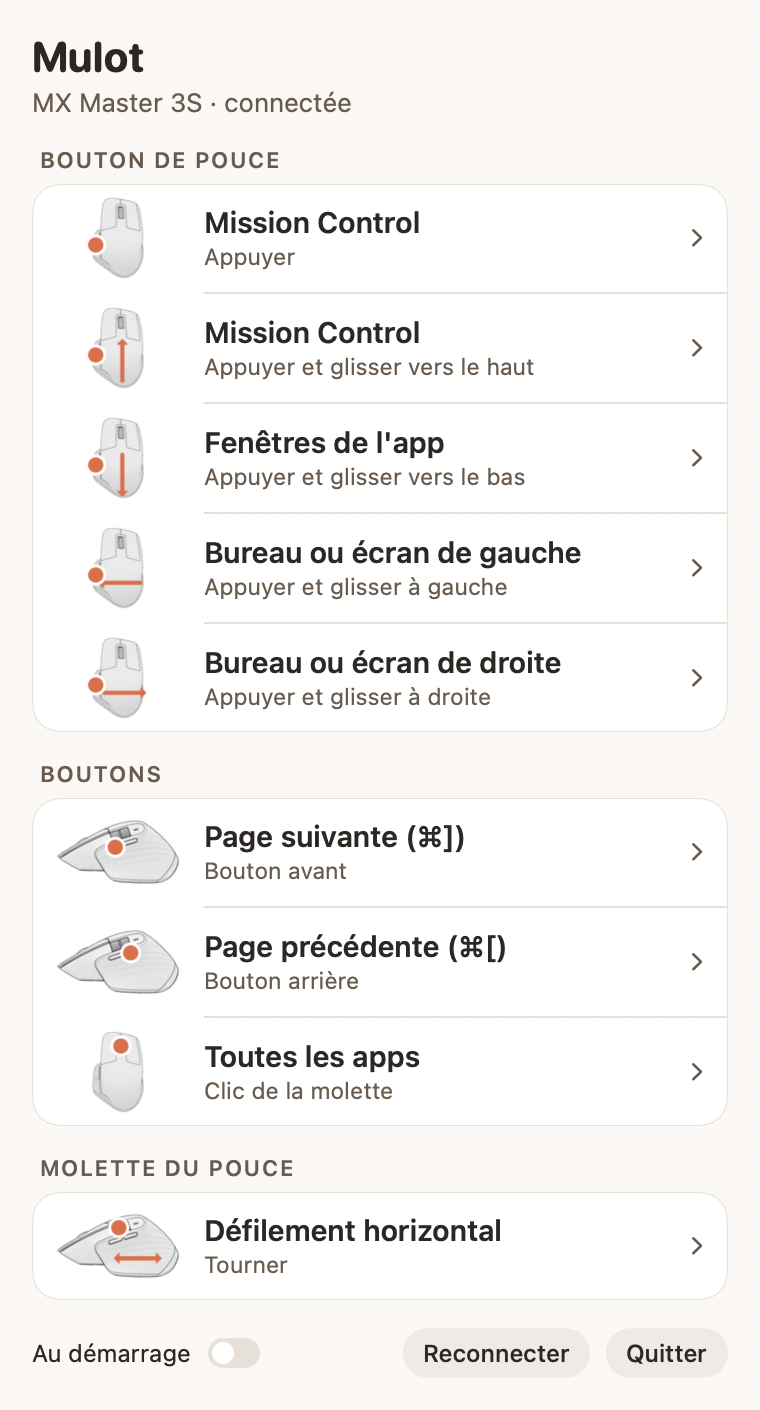
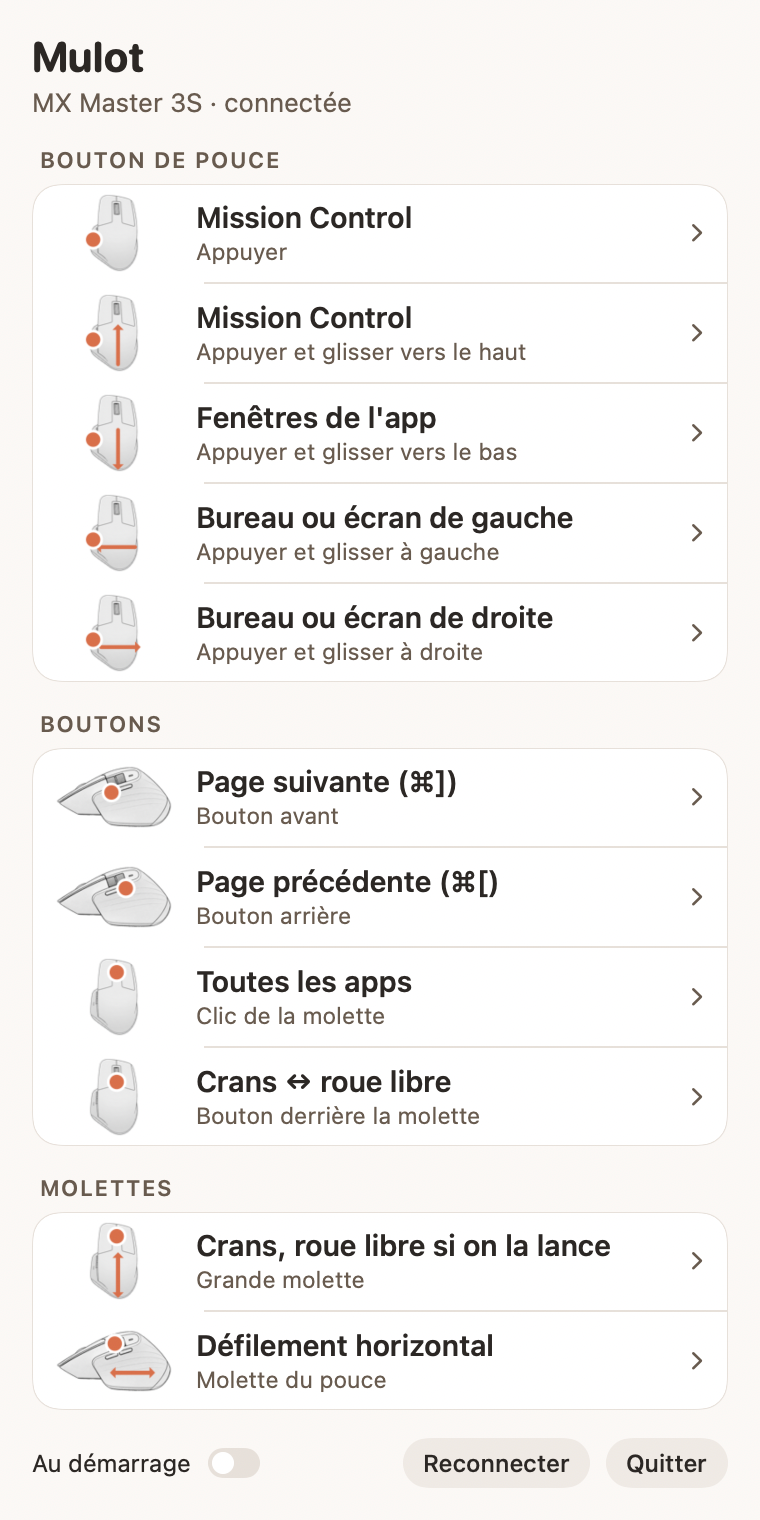
Réglages de la grande molette (SmartShift) et bouton derrière la molette réglable

diff --git a/Sources/Mulot/HIDPP.swift b/Sources/Mulot/HIDPP.swift
@@ -10,6 +10,9 @@ final class LogiManager {
 
     // Identifiants HID++
     static let gestureCID: UInt16 = 0x00C3     // bouton de pouce (gestes)
+    static let shiftCID: UInt16 = 0x00C4       // bouton derrière la molette (crans / roue libre)
+    static let featSmartShiftV2: UInt16 = 0x2111   // MX Master 3, 3S, 4
+    static let featSmartShift: UInt16 = 0x2110     // MX Master 2S et plus anciennes
     static let featReprog: UInt16 = 0x1B04     // REPROG_CONTROLS_V4
     static let featBatteryUnified: UInt16 = 0x1004
     static let featBatteryLegacy: UInt16 = 0x1000
@@ -32,6 +35,9 @@ final class LogiManager {
     private(set) var lastError: String?
 
     var onGestureButton: ((Bool) -> Void)?   // true = appuyé
+    var onShiftButton: (() -> Void)?         // bouton derrière la molette, quand Mulot le gère
+    /// Mulot prend la main sur le bouton derrière la molette (sinon la souris le gère seule).
+    var divertShift: Bool { Config.action(.boutonMolette) != .defaut }
     var onStateChange: (() -> Void)?
 
     func start() {
@@ -62,8 +68,9 @@ final class LogiManager {
     /// Rend le bouton de pouce à la souris (à la fermeture de l'app).
     func stop() {
         guard device != nil, let idx = features[Self.featReprog] else { return }
-        let cid = Self.gestureCID
-        send(idx, 3, [UInt8(cid >> 8), UInt8(cid & 0xFF), 0x02, 0, 0]) { _ in }
+        for cid in [Self.gestureCID, Self.shiftCID] {
+            send(idx, 3, [UInt8(cid >> 8), UInt8(cid & 0xFF), 0x02, 0, 0]) { _ in }
+        }
         RunLoop.main.run(until: Date().addingTimeInterval(0.15))
     }
 
@@ -118,7 +125,8 @@ final class LogiManager {
                 }
                 return
             }
-            if !self.paused { self.divertGesture(idx) }
+            if !self.paused { self.divertGesture(idx); self.applyShiftButton() }
+            self.applyWheel()
             self.readBattery()
         }
     }
@@ -130,10 +138,12 @@ final class LogiManager {
             if paused {
                 if pressedCIDs.contains(Self.gestureCID) { onGestureButton?(false) }
                 pressedCIDs = []
-                let cid = Self.gestureCID
-                send(idx, 3, [UInt8(cid >> 8), UInt8(cid & 0xFF), 0x02, 0, 0]) { _ in }
+                for cid in [Self.gestureCID, Self.shiftCID] {
+                    send(idx, 3, [UInt8(cid >> 8), UInt8(cid & 0xFF), 0x02, 0, 0]) { _ in }
+                }
             } else {
                 divertGesture(idx)
+                applyShiftButton(quiet: true)
             }
         }
     }
@@ -141,6 +151,42 @@ final class LogiManager {
     private func reassert() {
         guard device != nil, !paused, let idx = features[Self.featReprog] else { return }
         divertGesture(idx, quiet: true)
+        if divertShift { applyShiftButton(quiet: true) }
+    }
+
+    /// Bouton derrière la molette : détourné vers Mulot, ou rendu à la souris.
+    func applyShiftButton(quiet: Bool = false) {
+        guard device != nil, !paused, let idx = features[Self.featReprog] else { return }
+        let cid = Self.shiftCID, on = divertShift
+        send(idx, 3, [UInt8(cid >> 8), UInt8(cid & 0xFF), on ? 0x03 : 0x02, 0, 0]) { [weak self] resp in
+            if !quiet {
+                self?.log(resp == nil ? "Bouton derrière la molette : réglage refusé par la souris"
+                          : on ? "Bouton derrière la molette géré par Mulot" : "Bouton derrière la molette rendu à la souris")
+            }
+        }
+    }
+
+    /// Grande molette : crans, roue libre et bascule automatique (SmartShift).
+    func applyWheel() {
+        guard device != nil else { return }
+        let (mode, threshold) = Config.wheel.hidpp
+        feature(Self.featSmartShiftV2) { [weak self] idx in
+            guard let self else { return }
+            if let idx {
+                // V2 : fonction 2 = régler [mode, seuil, force des crans (0 = inchangée)]
+                self.send(idx, 2, [mode, threshold, 0]) { resp in self.logWheel(resp != nil) }
+            } else {
+                self.feature(Self.featSmartShift) { idx in
+                    guard let idx else { return self.log("Molette : la souris ne gère pas SmartShift") }
+                    // V1 : fonction 1 = régler [mode, seuil, seuil par défaut (0 = inchangé)]
+                    self.send(idx, 1, [mode, threshold, 0]) { resp in self.logWheel(resp != nil) }
+                }
+            }
+        }
+    }
+
+    private func logWheel(_ ok: Bool) {
+        log(ok ? "Molette : \(Config.wheel.label)" : "Molette : réglage refusé par la souris")
     }
 
     private func divertGesture(_ idx: UInt8, quiet: Bool = false) {
@@ -249,8 +295,10 @@ final class LogiManager {
                 i += 2
             }
             let was = pressedCIDs.contains(Self.gestureCID), isNow = now.contains(Self.gestureCID)
+            let shiftPressed = !pressedCIDs.contains(Self.shiftCID) && now.contains(Self.shiftCID)
             pressedCIDs = now
             if was != isNow { onGestureButton?(isNow) }
+            if shiftPressed { onShiftButton?() }
         }
     }
 

diff --git a/Sources/Mulot/Panel.swift b/Sources/Mulot/Panel.swift
@@ -38,7 +38,13 @@ final class PanelModel: ObservableObject {
     var tapRunning: Bool { Mouse.shared.isRunning }
 
     func action(_ s: Slot) -> Action { Config.action(s) }
-    func set(_ s: Slot, _ a: Action) { Config.set(s, a); refresh() }
+    func set(_ s: Slot, _ a: Action) {
+        Config.set(s, a)
+        if s == .boutonMolette { logi.applyShiftButton() }
+        refresh()
+    }
+    var wheel: WheelMode { Config.wheel }
+    func setWheel(_ m: WheelMode) { Config.wheel = m; logi.applyWheel(); refresh() }
     var thumb: ThumbMode { Config.thumb }
     func setThumb(_ m: ThumbMode) { Config.thumb = m; refresh() }
 
@@ -71,9 +77,11 @@ struct PanelView: View {
                 rows([Slot.gesteClic, .gesteHaut, .gesteBas, .gesteGauche, .gesteDroite])
             }
             section("Boutons") {
-                rows([Slot.suivant, .precedent, .molette])
+                rows([Slot.suivant, .precedent, .molette, .boutonMolette])
             }
-            section("Molette du pouce") {
+            section("Molettes") {
+                wheelRow
+                Divider().overlay(Palette.line).padding(.leading, 86)
                 thumbRow
             }
             footer
@@ -179,14 +187,22 @@ struct PanelView: View {
         expandable(id: slot.rawValue,
                    image: MouseArt.image(slot.spot, arrow: slot.arrow),
                    caption: slot.shortLabel,
-                   value: model.action(slot).label,
-                   choices: slot.choices.map { a in (a.label, a == model.action(slot), { model.set(slot, a) }) })
+                   value: slot.actionLabel(model.action(slot)),
+                   choices: slot.choices.map { a in (slot.actionLabel(a), a == model.action(slot), { model.set(slot, a) }) })
+    }
+
+    private var wheelRow: some View {
+        expandable(id: "wheel",
+                   image: MouseArt.image(.molette, arrow: .verticale),
+                   caption: "Grande molette",
+                   value: model.wheel.label,
+                   choices: WheelMode.allCases.map { m in (m.choiceLabel, m == model.wheel, { model.setWheel(m) }) })
     }
 
     private var thumbRow: some View {
         expandable(id: "thumb",
                    image: MouseArt.image(.pouceMolette, arrow: .horizontale),
-                   caption: "Tourner",
+                   caption: "Molette du pouce",
                    value: model.thumb.label,
                    choices: ThumbMode.allCases.map { m in (m.label, m == model.thumb, { model.setThumb(m) }) })
     }
@@ -211,7 +227,7 @@ struct PanelView: View {
 
     private func row(image: NSImage, caption: String, value: String, open: Bool) -> some View {
         HStack(spacing: 12) {
-            Image(nsImage: image).resizable().aspectRatio(contentMode: .fit).frame(width: 62, height: 42)
+            Image(nsImage: image).resizable().aspectRatio(contentMode: .fit).frame(width: 58, height: 39)
             VStack(alignment: .leading, spacing: 1) {
                 Text(value).font(.system(size: 14.5, weight: .semibold)).foregroundStyle(Palette.fg)
                 Text(caption).font(.system(size: 11.5)).foregroundStyle(Palette.muted)
@@ -220,7 +236,7 @@ struct PanelView: View {
             Image(systemName: "chevron.right").font(.system(size: 10, weight: .semibold))
                 .foregroundStyle(open ? Palette.accent : Palette.muted)
         }
-        .padding(.horizontal, 12).padding(.vertical, 6)
+        .padding(.horizontal, 12).padding(.vertical, 5)
         .contentShape(Rectangle())
     }
 
@@ -264,7 +280,7 @@ struct ChoiceMenu: View {
             }
         }
         .padding(8)
-        .frame(width: 230)
+        .frame(width: 260)
         .background(Palette.bg)
         .foregroundStyle(Palette.fg)
     }
@@ -350,8 +366,8 @@ final class PanelController {
         let b = win.convertToScreen(button.convert(button.bounds, to: nil))
         let screen = win.screen?.visibleFrame ?? NSScreen.main!.visibleFrame
         var x = b.midX - size.width / 2
-        // Garde ~250 pt à droite pour le menu des choix, qui s'ouvre de ce côté.
-        x = min(max(x, screen.minX + 8), screen.maxX - size.width - 258)
+        // Garde ~280 pt à droite pour le menu des choix, qui s'ouvre de ce côté.
+        x = min(max(x, screen.minX + 8), screen.maxX - size.width - 288)
         show(NSRect(x: x, y: b.minY - size.height - 6, width: size.width, height: size.height))
     }
 
@@ -361,7 +377,7 @@ final class PanelController {
         model.refresh()
         let size = host.fittingSize
         let screen = (NSScreen.screens.first { NSMouseInRect(NSEvent.mouseLocation, $0.frame, false) } ?? NSScreen.main!).visibleFrame
-        show(NSRect(x: screen.midX - size.width / 2 - 125, y: screen.maxY - size.height - 40,
+        show(NSRect(x: screen.midX - size.width / 2 - 140, y: screen.maxY - size.height - 40,
                     width: size.width, height: size.height))
     }
 

diff --git a/Sources/Mulot/Config.swift b/Sources/Mulot/Config.swift
@@ -3,7 +3,7 @@ import Foundation
 /// Réglages, enregistrés dans les préférences macOS.
 enum Slot: String, CaseIterable {
     case gesteClic, gesteHaut, gesteBas, gesteGauche, gesteDroite
-    case precedent, suivant, molette
+    case precedent, suivant, molette, boutonMolette
 
     var label: String {
         switch self {
@@ -15,6 +15,7 @@ enum Slot: String, CaseIterable {
         case .precedent: return "Bouton Précédent"
         case .suivant: return "Bouton Suivant"
         case .molette: return "Clic de la molette"
+        case .boutonMolette: return "Bouton derrière la molette"
         }
     }
 
@@ -29,6 +30,7 @@ enum Slot: String, CaseIterable {
         case .precedent: return "Bouton arrière"
         case .suivant: return "Bouton avant"
         case .molette: return "Clic de la molette"
+        case .boutonMolette: return "Bouton derrière la molette"
         }
     }
 
@@ -39,6 +41,7 @@ enum Slot: String, CaseIterable {
         case .precedent: return .precedent
         case .suivant: return .suivant
         case .molette: return .molette
+        case .boutonMolette: return .superieur
         }
     }
     var arrow: Arrow? {
@@ -62,13 +65,20 @@ enum Slot: String, CaseIterable {
         case .precedent: return .precedent
         case .suivant: return .suivant
         case .molette: return .apps
+        case .boutonMolette: return .defaut
         }
+    }
+
+    /// Libellé d'une action pour ce bouton (« Par défaut » dit ce que fait la souris d'origine).
+    func actionLabel(_ a: Action) -> String {
+        if a == .defaut && self == .boutonMolette { return "Crans ↔ roue libre" }
+        return a.label
     }
 
     /// Les actions qui ont un sens pour ce bouton.
     var choices: [Action] {
         switch self {
-        case .precedent, .suivant, .molette: return Action.allCases
+        case .precedent, .suivant, .molette, .boutonMolette: return Action.allCases
         default: return Action.allCases.filter { $0 != .defaut }
         }
     }
@@ -82,8 +92,51 @@ enum Config {
     }
     static func set(_ s: Slot, _ a: Action) { d.set(a.rawValue, forKey: "slot." + s.rawValue) }
 
+    static var wheel: WheelMode {
+        get { d.string(forKey: "wheel").flatMap(WheelMode.init) ?? .auto }
+        set { d.set(newValue.rawValue, forKey: "wheel") }
+    }
+
     static var thumb: ThumbMode {
         get { d.string(forKey: "thumb").flatMap(ThumbMode.init) ?? .defaut }
         set { d.set(newValue.rawValue, forKey: "thumb") }
+    }
+}
+
+/// Comportement de la grande molette (fonction SmartShift de la souris).
+enum WheelMode: String, CaseIterable {
+    case autoFacile, auto, autoDifficile, crans, libre
+
+    var label: String {
+        switch self {
+        case .autoFacile: return "Roue libre dès qu'on la lance"
+        case .auto: return "Crans, roue libre si on la lance"
+        case .autoDifficile: return "Roue libre seulement si on la lance fort"
+        case .crans: return "Toujours à crans"
+        case .libre: return "Toujours en roue libre"
+        }
+    }
+
+    /// Libellé court dans le menu des choix.
+    var choiceLabel: String {
+        switch self {
+        case .autoFacile: return "Automatique, bascule facile"
+        case .auto: return "Automatique (par défaut)"
+        case .autoDifficile: return "Automatique, bascule difficile"
+        case .crans: return "Toujours à crans"
+        case .libre: return "Toujours en roue libre"
+        }
+    }
+
+    /// Réglage HID++ : mode (1 = roue libre, 2 = crans, 0 = inchangé)
+    /// et seuil de bascule automatique (vitesse ; 0xFF = jamais).
+    var hidpp: (mode: UInt8, threshold: UInt8) {
+        switch self {
+        case .autoFacile: return (2, 6)
+        case .auto: return (2, 12)
+        case .autoDifficile: return (2, 24)
+        case .crans: return (2, 0xFF)
+        case .libre: return (1, 0)
+        }
     }
 }

diff --git a/Sources/Mulot/main.swift b/Sources/Mulot/main.swift
@@ -17,6 +17,11 @@ final class AppDelegate: NSObject, NSApplicationDelegate {
                                 onQuit: { NSApp.terminate(nil) })
 
         logi.onGestureButton = { [weak self] pressed in self?.mouse.gestureButton(pressed: pressed) }
+        logi.onShiftButton = {
+            let action = Config.action(.boutonMolette)
+            appLog("Bouton derrière la molette → \(action.rawValue)")
+            action.perform()
+        }
         logi.onStateChange = { [weak self] in self?.refreshIcon(); self?.panel.refresh() }
 
         appLog("Démarrage — surveillance saisie : \(IOHIDCheckAccess(kIOHIDRequestTypeListenEvent).rawValue), accessibilité : \(AXIsProcessTrusted())")

diff --git a/Sources/Mulot/MouseArt.swift b/Sources/Mulot/MouseArt.swift
@@ -18,7 +18,7 @@ enum Spot {
     }
 }
 
-enum Arrow { case haut, bas, gauche, droite, horizontale }
+enum Arrow { case haut, bas, gauche, droite, horizontale, verticale }
 
 enum MouseArt {
     private static var sources: [String: NSImage] = [:]
@@ -79,6 +79,7 @@ enum MouseArt {
         case .gauche: one(-1, 0)
         case .droite: one(1, 0)
         case .horizontale: one(1, 0); one(-1, 0)
+        case .verticale: one(0, 1); one(0, -1)
         }
     }
 }

diff --git a/README.md b/README.md
@@ -16,7 +16,8 @@ No account, no Logitech software, no background updater: just your buttons and t
 - **Forward and back buttons:** next and previous page (⌘] and ⌘[).
 - **Wheel click:** all apps.
 - **Thumb wheel:** horizontal scrolling, or switch tabs, volume, zoom or desktops.
-- **Button behind the wheel:** keeps its original role (ratchet / free spin), handled by the mouse itself.
+- **Main wheel:** choose when it switches from ratchet to free spin (SmartShift: easy, normal or hard), or keep it always ratcheted or always free.
+- **Button behind the wheel:** switches between ratchet and free spin by default, or any other action.
 - Every slot can also: move the window to the left or right display, show the desktop, middle click, play/pause, Spotlight, screenshot, copy, paste, close tab.
 - Battery level in the menu bar and in the window.
 
@@ -74,7 +75,8 @@ Sans compte, sans logiciel Logitech, sans mises à jour en arrière-plan : juste
 - **Boutons avant et arrière :** page suivante et page précédente (⌘] et ⌘[).
 - **Clic de la molette :** toutes les apps.
 - **Molette du pouce :** défilement horizontal, ou changer d'onglet, le volume, le zoom ou le bureau.
-- **Bouton derrière la molette :** garde son rôle d'origine (cran ou roue libre), géré par la souris elle-même.
+- **Grande molette :** choisir quand elle passe des crans à la roue libre (SmartShift : bascule facile, normale ou difficile), ou la garder toujours à crans ou toujours en roue libre.
+- **Bouton derrière la molette :** bascule entre crans et roue libre par défaut, ou n'importe quelle autre action.
 - Chaque bouton peut aussi : envoyer la fenêtre sur l'écran de gauche ou de droite, afficher le bureau, clic du milieu, lecture/pause, Spotlight, capture d'écran, copier, coller, fermer l'onglet.
 - Le niveau de batterie dans la barre des menus et dans la fenêtre.
 

diff --git a/change-mulot.md b/change-mulot.md
@@ -2,6 +2,12 @@
 
 Une petite app Mac, dans la barre des menus, qui remplace Logi Options+ pour la souris Logitech MX Master 3S en Bluetooth. Elle règle les boutons et les gestes du pouce, sans compte ni logiciel Logitech. Les dernières modifications sont en haut.
 
+## 11 novembre 2026 : réglages de la grande molette
+
+- Nouvelle ligne **Grande molette** : choisir quand la molette passe des crans à la roue libre (automatique avec bascule facile, normale ou difficile), ou la garder toujours à crans ou toujours en roue libre. Le réglage est envoyé à la souris (fonction SmartShift) à chaque connexion.
+- Le **bouton derrière la molette** devient réglable : par défaut il bascule toujours entre crans et roue libre, mais on peut lui donner n'importe quelle autre action.
+- La section « Molette du pouce » devient « Molettes » et regroupe les deux molettes. Les lignes sont un peu plus serrées pour que la fenêtre ne grandisse pas.
+
 ## 10 novembre 2026 (nuit) : mode jeu
 
 - Quand un jeu est au premier plan (GeForce NOW, Steam, Battle.net, CrossOver, ou toute app classée « Jeux »), Mulot s'efface : les boutons gardent leur rôle d'origine et le bouton de pouce ne fait plus de gestes. Avant, un appui involontaire du pouce changeait de bureau en pleine partie et le jeu perdait la souris.
